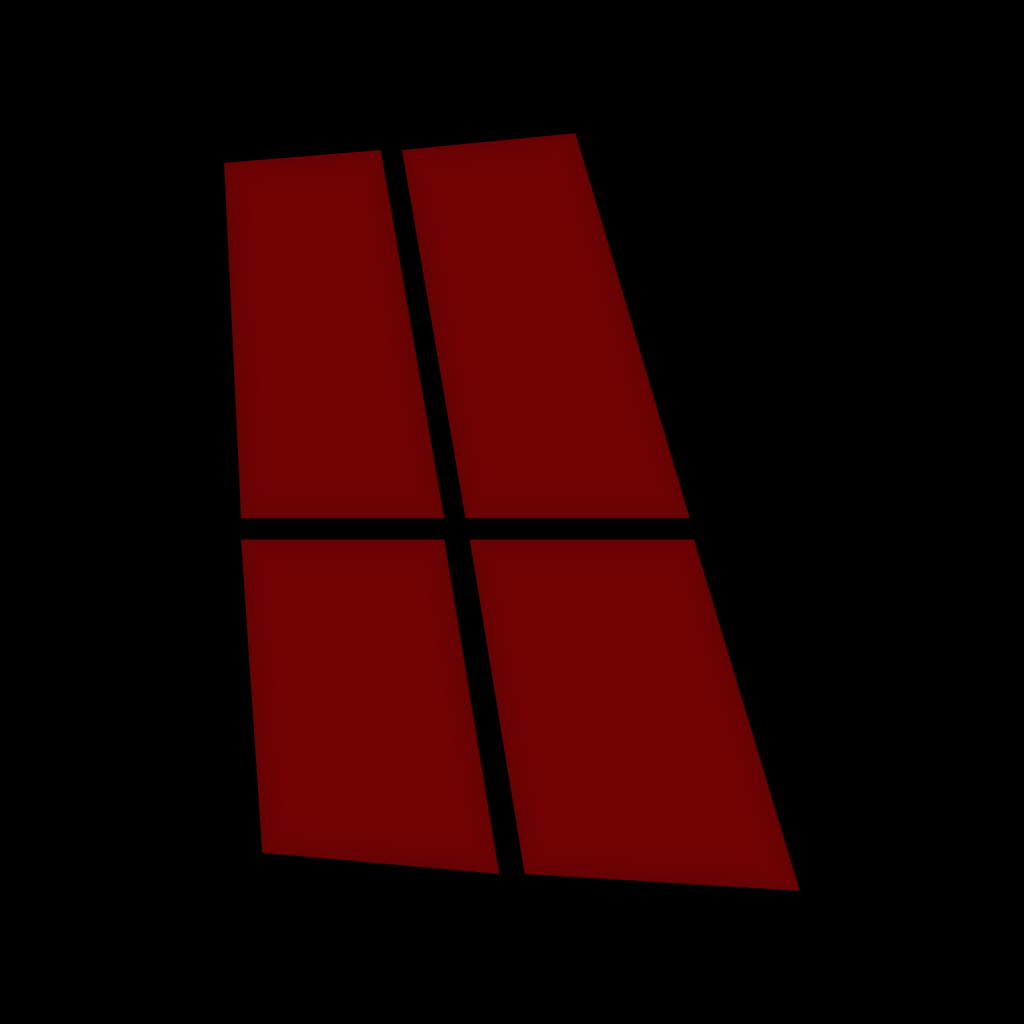
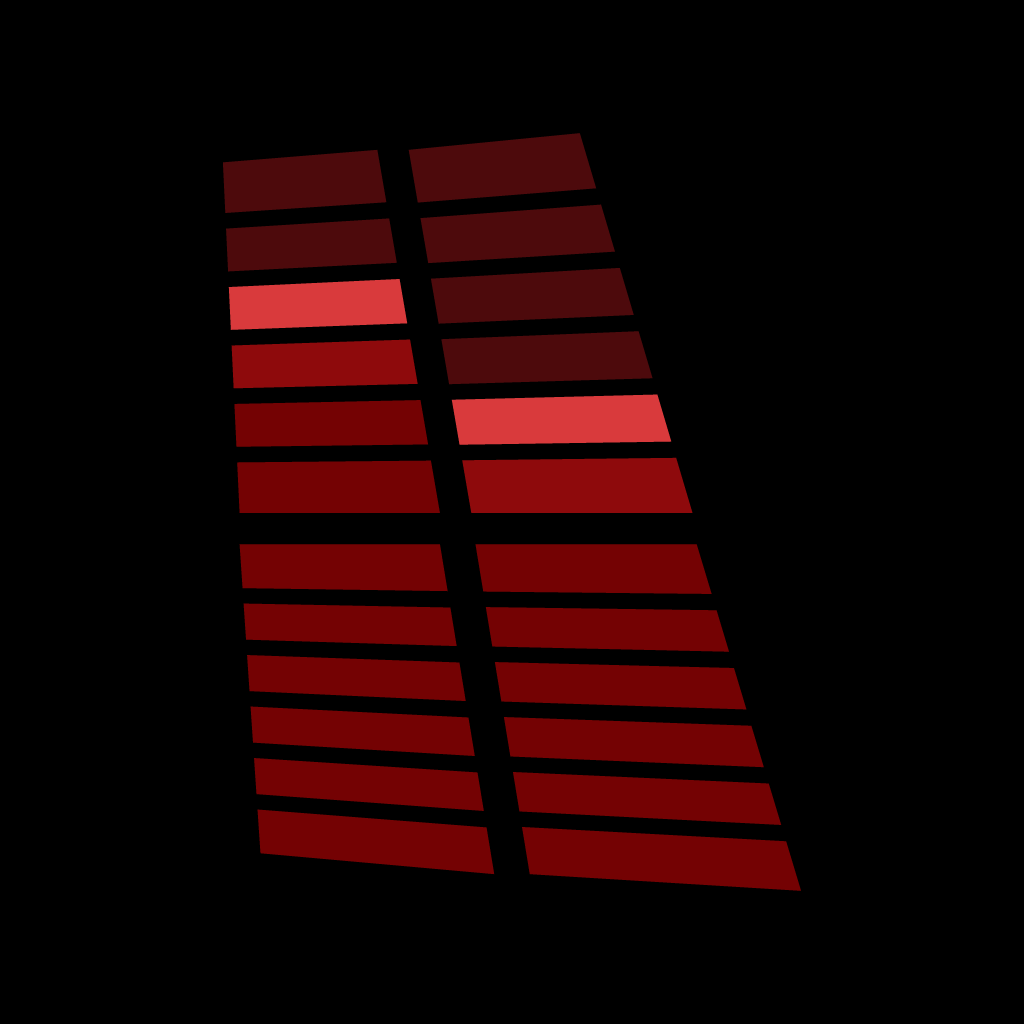
Ícono de la app: la claraboya hecha vúmetro
Los cuatro cuadros apenas más separados y partidos en segmentos como
el medidor de una consola (izquierda y derecha prendidas hasta distinta
altura, con el pico más claro), para que se note que es de música.

Claude-Session: https://claude.ai/code/session_01EdNj9XwWwaJPqNe8We8za7

Changed region(s): [[0.2188, 0.125, 0.7812, 0.8438]]

diff --git a/scripts/iconos.py b/scripts/iconos.py
@@ -1,7 +1,9 @@
 #!/usr/bin/env python3
-"""Íconos de la app Claraboya: los cuatro cuadros sobre negro.
+"""Íconos de la app Claraboya: la claraboya hecha vúmetro, sobre negro.
 
-Dibuja el logo desde sus cuatro polígonos (bordes nítidos en cualquier tamaño) y escribe:
+Los cuatro cuadros del logo, apenas separados, y cada columna partida en segmentos como el medidor
+de una consola: izquierda y derecha prendidas hasta distinta altura, con el pico más claro.
+Dibuja todo desde polígonos (bordes nítidos en cualquier tamaño) y escribe:
   app/assets/icon-foreground.png   frente del ícono adaptable de Android (fondo transparente)
   app/assets/icon-only.png         ícono para Android viejos (fondo negro)
   web/img/app-180.png, app-192.png, app-512.png   iPhone (pantalla de inicio) y web instalada
@@ -16,16 +18,22 @@ from PIL import Image
 
 ROOT = os.path.dirname(os.path.dirname(os.path.abspath(__file__)))
 
-# Los cuatro cuadros (de arriba a la izquierda a abajo a la derecha), en unidades del dibujo original.
+# Los cuatro cuadros (arriba izq., arriba der., abajo izq., abajo der.), en unidades del dibujo original.
 CUADROS = [
     [(22, 7), (59, 4), (74, 91), (26, 91)],
     [(64, 4), (105, 0), (132, 91), (79, 91)],
     [(26, 96), (74, 96), (87, 175), (31, 170)],
     [(80, 96), (133, 96), (158, 179), (93, 175)],
 ]
-BORDO = np.array([116, 2, 3], float)   # #740203
-SOMBRA = 15                            # cuánto se oscurece el borde de cada cuadro
-SOMBRA_ANCHO = 0.056                   # ancho de esa sombra, en proporción al alto del logo
+SEPARAR = 1.25       # cuánto se aleja cada cuadro del centro (la rendija pasa de 5 a 7,5)
+SEGMENTOS = 6        # segmentos del vúmetro en cada cuadro (12 por columna)
+CORTE = 3.8          # ancho de la rendija entre segmentos, en las mismas unidades
+PICO = {0: 2, 1: 4}  # en qué segmento (de 12, contando desde arriba) está el pico de cada columna
+
+APAGADO = (77, 10, 12)      # #4D0A0C  segmentos de arriba del pico
+PRENDIDO = (116, 2, 3)      # #740203  bordó de siempre
+CALIENTE = (142, 10, 12)    # #8E0A0C  el segmento justo debajo del pico
+COLOR_PICO = (217, 58, 60)  # #D93A3C
 
 # Alto del logo como parte del alto del ícono.
 # Android adaptable: el sistema muestra el 66,7 % del centro y lo recorta en círculo o squircle;
@@ -38,9 +46,36 @@ ALTO = {
 SS = 4  # submuestreo para bordes suaves
 
 
+def lerp(a, b, t):
+    return (a[0] + (b[0] - a[0]) * t, a[1] + (b[1] - a[1]) * t)
+
+
+def piezas():
+    """Lista de (cuadrilátero, color) en unidades del dibujo: los segmentos de los cuatro cuadros."""
+    salida = []
+    for i, q in enumerate(CUADROS):
+        dx = SEPARAR if i in (1, 3) else -SEPARAR
+        dy = SEPARAR if i in (2, 3) else -SEPARAR
+        tl, tr, br, bl = [(x + dx, y + dy) for x, y in q]
+        alto = ((bl[1] - tl[1]) + (br[1] - tr[1])) / 2
+        col, fila = i % 2, i // 2
+        for j in range(SEGMENTOS):
+            t0, t1 = j / SEGMENTOS, (j + 1) / SEGMENTOS
+            if j > 0:
+                t0 += CORTE / 2 / alto
+            if j < SEGMENTOS - 1:
+                t1 -= CORTE / 2 / alto
+            n = fila * SEGMENTOS + j  # número de segmento en la columna, desde arriba
+            p = PICO[col]
+            color = APAGADO if n < p else COLOR_PICO if n == p else CALIENTE if n == p + 1 else PRENDIDO
+            salida.append(([lerp(tl, bl, t0), lerp(tr, br, t0), lerp(tr, br, t1), lerp(tl, bl, t1)], color))
+    return salida
+
+
 def dibujar(lado, alto_rel, fondo):
     """Devuelve una imagen RGBA de lado x lado con el logo centrado."""
-    pts = [p for q in CUADROS for p in q]
+    formas = piezas()
+    pts = [p for q, _ in formas for p in q]
     x0, x1 = min(p[0] for p in pts), max(p[0] for p in pts)
     y0, y1 = min(p[1] for p in pts), max(p[1] for p in pts)
     escala = alto_rel * lado / (y1 - y0)
@@ -48,27 +83,20 @@ def dibujar(lado, alto_rel, fondo):
     n = lado * SS
     rgb = np.zeros((n, n, 3))
     alfa = np.zeros((n, n))
-    ancho_sombra = SOMBRA_ANCHO * alto_rel * lado * SS
-    for q in CUADROS:
-        poly = [((x - cx) * escala + lado / 2) * SS for x, _ in q], [((y - cy) * escala + lado / 2) * SS for _, y in q]
-        px, py = np.array(poly[0]), np.array(poly[1])
+    for q, color in formas:
+        px = np.array([((x - cx) * escala + lado / 2) * SS for x, _ in q])
+        py = np.array([((y - cy) * escala + lado / 2) * SS for _, y in q])
         bx0, bx1 = int(max(0, px.min() - 2)), int(min(n, px.max() + 3))
         by0, by1 = int(max(0, py.min() - 2)), int(min(n, py.max() + 3))
         yy, xx = np.mgrid[by0:by1, bx0:bx1] + 0.5
         # orientación del polígono para que "adentro" sea positivo
         area = sum(px[i] * py[(i + 1) % 4] - px[(i + 1) % 4] * py[i] for i in range(4))
         sgn = 1 if area > 0 else -1
-        d = np.full(xx.shape, np.inf)
+        dentro = np.ones(xx.shape, bool)
         for i in range(4):
             ax, ay, bx, by = px[i], py[i], px[(i + 1) % 4], py[(i + 1) % 4]
-            ex, ey = bx - ax, by - ay
-            s = sgn * (ex * (yy - ay) - ey * (xx - ax)) / np.hypot(ex, ey)
-            d = np.minimum(d, s)
-        dentro = d >= 0
-        t = np.clip(1 - d / ancho_sombra, 0, 1)
-        color = BORDO[None, None, :] - (SOMBRA * t * t)[:, :, None] * np.array([1, 0, 0])[None, None, :]
-        sub_rgb = rgb[by0:by1, bx0:bx1]
-        sub_rgb[dentro] = color[dentro]
+            dentro &= sgn * ((bx - ax) * (yy - ay) - (by - ay) * (xx - ax)) >= 0
+        rgb[by0:by1, bx0:bx1][dentro] = color
         alfa[by0:by1, bx0:bx1][dentro] = 1
     # bajar a tamaño final promediando (con alfa premultiplicado)
     pre = (rgb * alfa[:, :, None]).reshape(lado, SS, lado, SS, 3).mean(axis=(1, 3))

diff --git a/CLAUDE.md b/CLAUDE.md
@@ -45,8 +45,9 @@ Dueño: Joaquín Nachman. Es la fuente única: de acá salen la web, la web inst
   marca las páginas con `data-app data-native` y cambia los links `carpeta/` por `carpeta/index.html`
   (el servidor interno de la APK no abre carpetas). En JS, para links entre herramientas usar `CB.toolUrl()`.
   - `app/native/MainActivity.java`: puente `window.ClaraboyaNativo` (guardar y compartir archivos, compartir texto, pantalla encendida, vibrar, actualizar). En JS, para compartir usar `CB.share()`.
-  - Íconos: `scripts/iconos.py` (Python con Pillow y numpy) dibuja los cuatro cuadros y escribe `app/assets/icon-*.png` y `web/img/app-*.png`.
-    El tamaño del logo se cambia en `ALTO` (en Android, 0,51 es lo máximo que entra en el recorte redondo).
+  - Íconos: `scripts/iconos.py` (Python con Pillow y numpy) dibuja la claraboya hecha vúmetro (los cuatro cuadros apenas separados, partidos en segmentos, con el pico más claro) y escribe `app/assets/icon-*.png` y `web/img/app-*.png`.
+    El tamaño del logo se cambia en `ALTO` (en Android, 0,51 es lo máximo que entra en el recorte redondo); separación, segmentos y colores, arriba del archivo.
+    El logo de la marca (cabecera, pantalla de carga, sticker) sigue siendo la claraboya sola.
   - `app/keystore/claraboya.jks`: llave de firma, pública (mismo criterio que AirMix). No cambiarla: si cambia, hay que desinstalar para actualizar.
 - La APK la arma GitHub Actions (`.github/workflows/app.yml`); no hay SDK de Android local.
 

diff --git a/CAMBIOS.md b/CAMBIOS.md
@@ -4,6 +4,7 @@ Una sola versión para todo: la web, las herramientas y las apps.
 La versión vive en el archivo `VERSION`. Lo nuevo se anota en "Próxima versión" y sale los lunes.
 
 ## Próxima versión
+- Ícono nuevo de la app: los cuatro cuadros de la claraboya ahora son un vúmetro, para que se note que es una app de música. En iPhone, para ver el ícono nuevo hay que borrar el acceso directo y volver a agregarlo a inicio.
 - Rider técnico en otros idiomas: el PDF sale en castellano, inglés, portugués, francés, italiano o alemán (títulos, columnas, escenario y lo que vino de las plantillas, que se traduce solo; lo que escribiste vos queda igual). Con «Otro idioma…» escribís vos los textos, incluso con otros alfabetos (polaco, griego, ruso…).
 - Stage plot rediseñado: en el celular ya no se corta ni se encima (el escenario es más alto, los íconos se adaptan al tamaño y los carteles de fondo y público quedan afuera del área), se puede bajar la página con el dedo encima, los íconos se agarran desde donde tocás, se mueven con el teclado y muestran su número de canal.
 - En el PDF el stage plot sale claro (fondo blanco, para imprimir sin gastar tinta), siempre con la misma forma sin importar en qué pantalla lo armaste, con letras más grandes y los números de canal.
